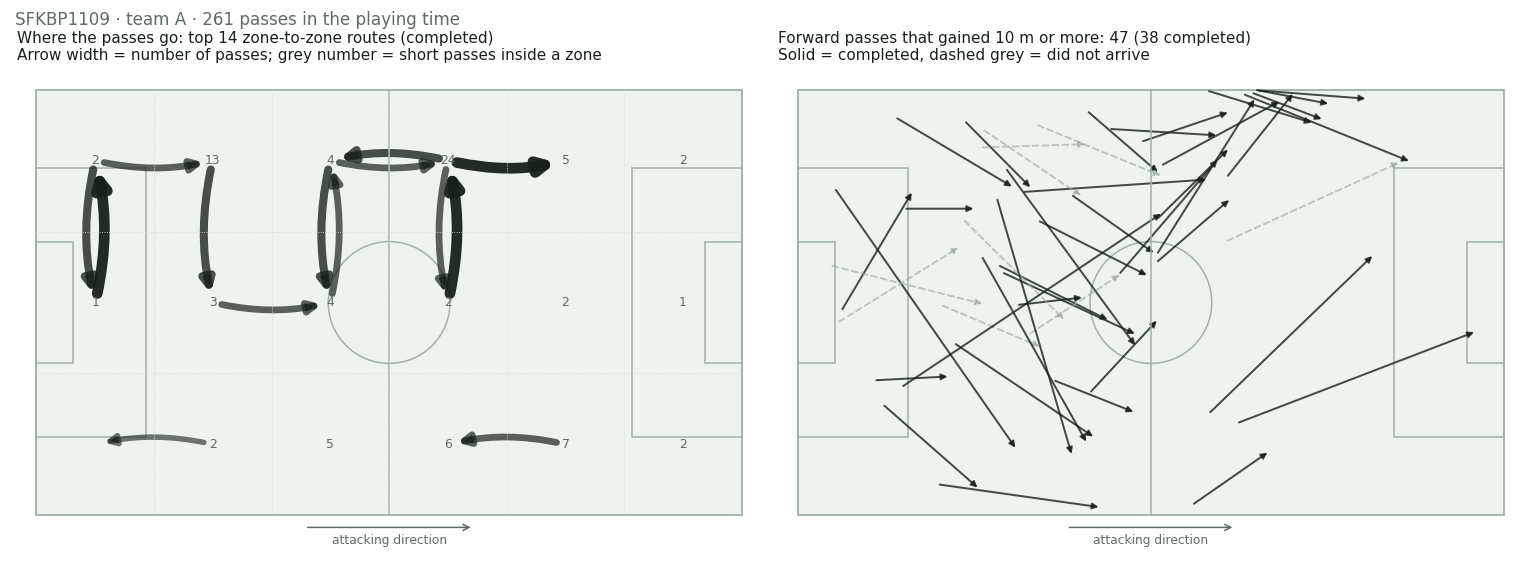
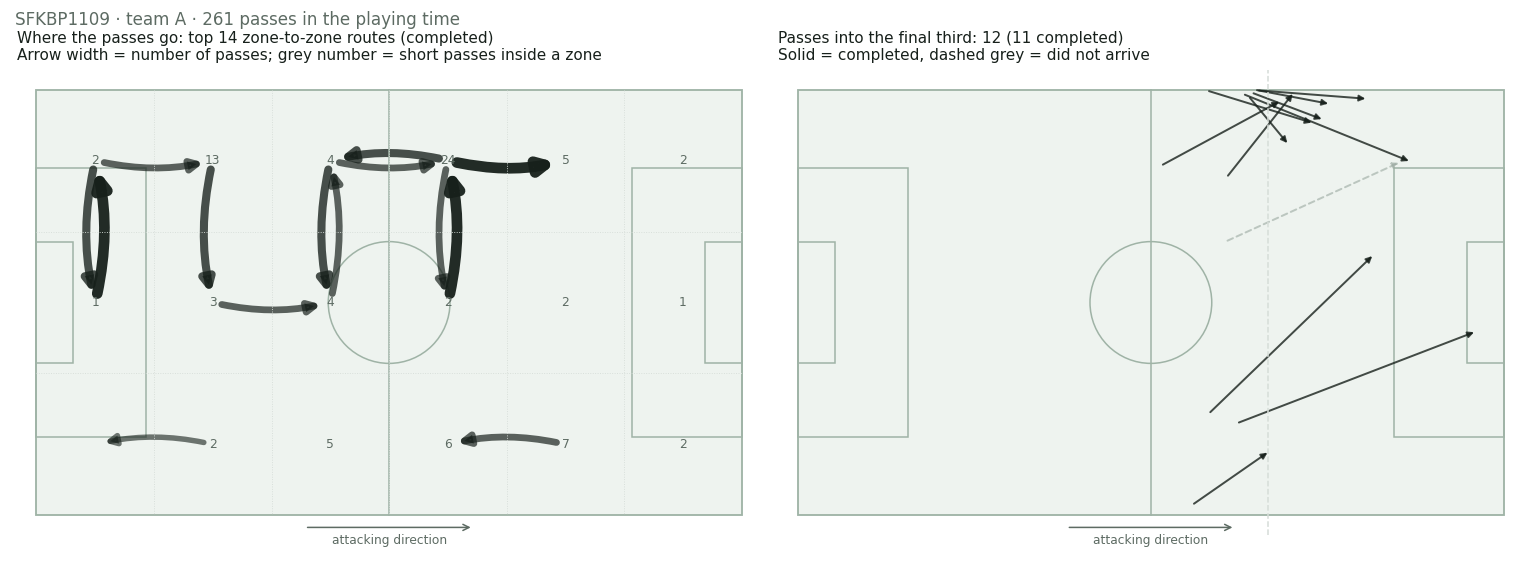
Pass map: view 2 = passes into the final third
Claude-Session: https://claude.ai/code/session_013ik1CRtD34J8661rJfnPBT

diff --git a/tools/passmap_proto.py b/tools/passmap_proto.py
@@ -36,11 +36,11 @@ for z, n in inside.items():
     x, y = cen(z); a1.text(x, y, str(n), ha="center", va="center", fontsize=8, color="#5d6b63")
 a1.set_title(f"Where the passes go: top {len(top)} zone-to-zone routes (completed)\nArrow width = number of passes; grey number = short passes inside a zone", fontsize=10, color=INK, loc="left")
 # forward passes
-pitch(a2); fw = [p for p in P if p.get("gain_m") is not None and p["gain_m"] >= 10]
+pitch(a2); fw = [p for p in P if p["from_m"][0] < 2 * L / 3 <= p["to_m"][0]]
 for p in fw:
     ok = bool(p.get("completed"))
     a2.add_patch(FancyArrowPatch(tuple(p["from_m"]), tuple(p["to_m"]), arrowstyle="-|>", mutation_scale=8, lw=1.3, color=COL if ok else "#9aa8a0", alpha=0.8 if ok else 0.6, ls="-" if ok else (0, (3, 2))))
 n_ok = sum(bool(p.get("completed")) for p in fw)
-a2.set_title(f"Forward passes that gained 10 m or more: {len(fw)} ({n_ok} completed)\nSolid = completed, dashed grey = did not arrive", fontsize=10, color=INK, loc="left")
+a2.axvline(2 * L / 3, color="#d6ddd8", lw=1, ls="--"); a2.set_title(f"Passes into the final third: {len(fw)} ({n_ok} completed)\nSolid = completed, dashed grey = did not arrive", fontsize=10, color=INK, loc="left")
 fig.suptitle(f"{M} · team {T} · {len(P)} passes in the playing time", fontsize=11, x=0.01, ha="left", color="#5d6b63")
 plt.tight_layout(); out = f"results/app/passmap/{M}_{T}.png"; plt.savefig(out, dpi=110); print(out, len(P), len(fw), top[:3])

diff --git a/results/app/lovable_fixes_2026-10-04.md b/results/app/lovable_fixes_2026-10-04.md
@@ -163,7 +163,7 @@ Possession, pressing, shape and the other stats must be shown **over time** as w
 
 ## 11. Pass map: replace the current graphic (Daniel, 6 Oct)
 
-The current pass map draws every pass as its own line, and that is unreadable. Replace it with **two views**, switched by a toggle above the pitch: "Routes" (default) and "Forward passes". The SFK / Opponent toggle picks the team; there is no "Both" here. Source: `stats.json → passes[]`, using only passes whose `t` is inside `match_data.periods[]`. Positions `from_m` and `to_m` are metres on a 106 × 64 pitch; the selected team always attacks to the right, so never mirror them. A picture of both views is attached (`passmap_SFKBP1109_A.png`).
+The current pass map draws every pass as its own line, and that is unreadable. Replace it with **two views**, switched by a toggle above the pitch: "Routes" (default) and "Into the final third". The SFK / Opponent toggle picks the team; there is no "Both" here. Source: `stats.json → passes[]`, using only passes whose `t` is inside `match_data.periods[]`. Positions `from_m` and `to_m` are metres on a 106 × 64 pitch; the selected team always attacks to the right, so never mirror them. A picture of both views is attached (`passmap_vallentuna_SFK.png`).
 
 **View 1, Routes (where the passes go):**
 - Split the pitch into a 6 × 3 grid of zones (each zone about 17.7 m × 21.3 m). Draw the zone lines faint and dotted.
@@ -173,10 +173,10 @@ The current pass map draws every pass as its own line, and that is unreadable. R
 - Title: "Where the passes go". Subtitle: "Top routes between zones · arrow width = number of passes".
 - On tap or hover, show the route with its count, e.g. "Own half left → middle left: 13 passes".
 
-**View 2, Forward passes:**
-- Draw only passes with `gain_m >= 10` as straight arrows from `from_m` to `to_m`.
+**View 2, Into the final third:**
+- Draw only passes that start before the final third and end inside it (`from_m[0] < 70.67` and `to_m[0] >= 70.67`), as straight arrows from `from_m` to `to_m`. Mark the final-third line with a faint dashed line. (All forward passes together are 150–200 lines on a full match, which is unreadable again.)
 - Completed passes: solid, in the team colour. Passes that did not arrive: grey and dashed.
-- Title: "Forward passes that gained 10 m or more". Subtitle: "N passes · M completed".
+- Title: "Passes into the final third". Subtitle: "N passes · M completed".
 
 **Both views:**
 - Draw the pitch markings (halfway line, centre circle, both boxes) in a light line colour on a calm grass tone.
